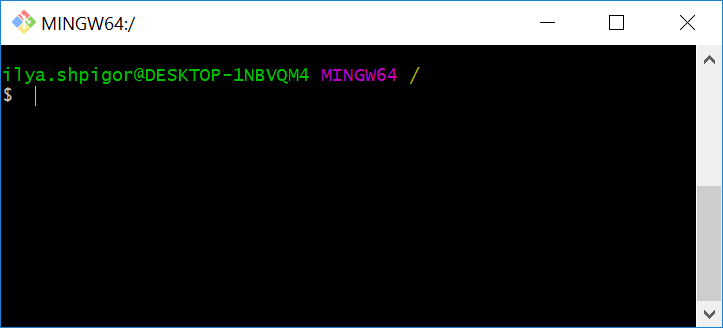
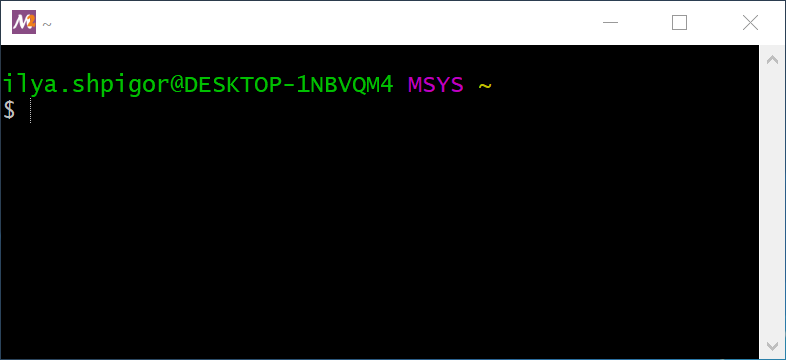
Switch to the MSYS2 environment instead of MinGW64

diff --git a/manuscript/Bash/tools.md b/manuscript/Bash/tools.md
@@ -4,32 +4,52 @@
 
 ### Интерпретатор Bash
 
-В прошлой главе мы в общих чертах изучили процесс интерпретации программ. У каждого [**скриптового языка программирования**](https://ru.wikipedia.org/wiki/Сценарный_язык) есть свой интерпретатор. Bash не исключение. Его интерпретатор входит в набор инструментов [**MinGW**](https://nuwen.net/mingw.html), который помимо Bash включает в себя пользовательские компоненты GNU и [свободный набор компиляторов GCC](https://ru.wikipedia.org/wiki/GNU_Compiler_Collection).
+В прошлой главе мы в общих чертах изучили процесс интерпретации программ. У каждого [**скриптового языка программирования**](https://ru.wikipedia.org/wiki/Сценарный_язык) есть свой интерпретатор. Bash не исключение. Его интерпретатор входит в набор инструментов [**MinGW**](https://ru.wikipedia.org/wiki/MinGW#Компоненты_MinGW), который помимо Bash включает в себя пользовательские компоненты GNU и [свободный набор компиляторов GCC](https://ru.wikipedia.org/wiki/GNU_Compiler_Collection).
 
 I> У MinGW есть альтернатива под названием [Windows подсистема для Linux](https://ru.wikipedia.org/wiki/Windows_Subsystem_for_Linux) (Windows subsystem for Linux или WSL). Эта подсистем доступна только на Windows версии 10. Для её установки воспользуйтесь [инструкцией](https://docs.microsoft.com/ru-ru/windows/wsl/install-win10) на сайте Micosoft.
 
-Чтобы установить MinGW на свой компьютер, выполните следующие действия:
+Из набора инструментов MinGW нам нужен компонент MSYS (Minimal SYStem). Он включает в себя интерпретатор Bash и [утилиты командной строки GNU](https://ru.wikipedia.org/wiki/GNU_Coreutils). Вместе они позволяют воссоздать минимальное Linux окружение.
 
-1. Скачайте самораспаковывающийся архив с набором инструментов. Это должен быть файл с именем `mingw-16.1.exe`. Число 16.1 в имени файла означает номер актуальной версии. Она может отличаться в вашем случае.
+Мы будем использовать новую версию Linux-окружения под названием [MSYS2](https://www.msys2.org). Чтобы установить его на свой компьютер, выполните следующие действия:
 
-2. Запустите скачанный архив. Откроется диалог распаковки, как на иллюстрации 1-1.
+1. Уточните разрядность вашей версии Windows. Для этого:
+    * Если на вашем рабочем столе есть иконка "Компьютер", нажмите на неё правой кнопкой мыши и выберите пункт "Свойства".
 
-{caption: "Иллюстрация 2-1. Диалог распаковки MinGW"}
-![Диалог распаковки](images/Bash/mingw-install.png)
+    * Если на рабочем столе такой иконки нет, нажмите кнопку "Пуск", найдите в открывшемся меню пункт "Компьютер" и по правой кнопке мыши выберите "Свойства". 
 
-3. В диалоге выберите [**путь**](https://ru.wikipedia.org/wiki/Путь_к_файлу) установки и нажмите кнопку "Extract" (извлечь). Откроется диалог с текущим состоянием распаковки файлов MinGW, как на иллюстрации 1-2.
+    * В открывшемся окне "Система" найдите пункт "Тип системы" как на иллюстрации 2-1.
 
-{caption: "Иллюстрация 2-2. Процесс установки MinGW", height: "30%"}
-![Процесс установки](images/Bash/mingw-install-progress.png)
+{caption: "Иллюстрация 2-1. Тип системы"}
+![Тип системы](images/Bash/windows-system-type.png)
 
-После завершения процесса установки диалог закроется автоматически. По указанному вами пути будут находится файлы MinGW.
+2. Скачайте установщик MSYS2 с [официального сайта](https://www.msys2.org).
+    * Если вы используете 32-разрядную версию Windows, выберите для скачивания файл `msys2-i686-20190524.exe`. 
+
+    * Если у вас 64-разрядную версия ОС, вам нужен файл `msys2-x86_64-20190524.exe`.
+    
+    * Число `20190524` в имени файла означает номер версии MSYS2. Она может отличаться в вашем случае.
+
+3. Запустите скачанный установщик. Откроется окно, как на иллюстрации 2-2.
+
+{caption: "Иллюстрация 2-2. Диалог установки MSYS2", height: "30%"}
+![Диалог установки](images/Bash/msys2-install.png)
+
+3. Нажмите кнопку "Next" (далее). В новом окне (см. иллюстрацию 2-3) выберите [**путь**](https://ru.wikipedia.org/wiki/Путь_к_файлу) установки и нажмите кнопку "Next".
+    * Если на вашем диске `C` ещё есть место, будет лучше оставить путь по умолчанию `C:\msys64`.
+
+{caption: "Иллюстрация 2-3. Выбор пути установки", height: "30%"}
+![Процесс установки](images/Bash/msys2-path.png)
+
+4. Следующее окно предлагает вам выбрать имя приложения для меню "Пуск". Оставьте его без изменений и нажмите "Next". После этого начнётся процесс установки.
+
+5. После завершения установки закройте окно установщика нажатием на кнопку "Finish" (завершить).
+
+Файлы MSYS2 установлены на ваш жёсткий диск по указанному пути. Если вы не меняли путь, они находятся в `C:\msys64`. Чтобы запустить Bash, перейдите в этот каталог и запустите приложение `msys2.exe`. Откроется окно интерпретатора командной строки Bash как на иллюстрации 2-4.
+
+{caption: "Иллюстрация 2-4. Окно интерпретатора командной строки Bash"}
+![Окно Bash](images/Bash/bash-window.png)
 
 Если вы используете Linux или MacOS, Bash уже предустановлен на вашу систему.
-
-По умолчанию набор инструментов MinGW устанавливается в каталог `C:\MinGW`. Чтобы запустить Bash, перейдите в каталог `C:\MinGW\git` и запустите приложение `git-bash.exe`. Откроется окно интерпретатора командной строки Bash как на иллюстрации 1-3.
-
-{caption: "Иллюстрация 2-3. Окно интерпретатора командной строки Bash"}
-![Окно Bash](images/Bash/bash-window.png)
 
 Чтобы открыть окно интерпретатора Bash под Linux, достаточно нажать комбинацию клавиш Ctrl+Alt+T.
 
